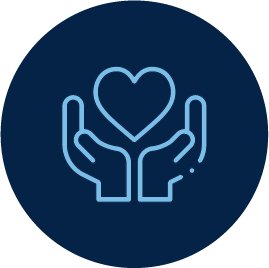
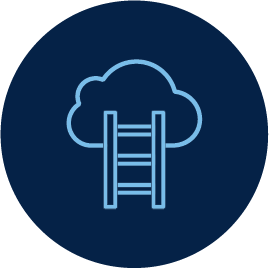
updated club values

Changed region(s): [[0.2082, 0.209, 0.7732, 0.806], [0.684, 0.6269, 0.7435, 0.6567]]

diff --git a/src/components/AboutUs/ClubValuesSection.js b/src/components/AboutUs/ClubValuesSection.js
@@ -1,6 +1,6 @@
 import React from "react"
 import styled from "styled-components"
-import Card from "../CardWithoutLink"
+import Card from "../CardWithDecor"
 import SectionTitle from "../SectionTitle"
 import icon1 from "../../images/about_us/club_values/club_value_1.png"
 import icon2 from "../../images/about_us/club_values/club_value_2.png"
@@ -26,26 +26,26 @@ const ClubValuesSection = () => (
             <Card className="item-0"
                 title="Big Data Energy"
                 icon={icon1}
-                description={<>We embrace our wacky and creative sides because that’s where all the best ideas are born. 
-                After all, why stick to the status-quo when you can think bigger?</>}
+                description={<>Quirky. Weird. Passionate.  We’re not just a professional club, we’re a family. 
+                We embrace our wacky and creative sides—that’s where the best ideas are born!</>}
             />
             <Card className="item-1"
-                title="Big Data For All"
+                title="Dream Big"
                 icon={icon2}
-                description={<>There are no hierarchies among us, just as there is no “I” in “team”! We’re a family and 
-                that means that we uplift each other.</>}
+                description={<>Why stick to the status-quo when you can think bigger? Serving the student, 
+                business, and campus communities has pushed us to always ask “What next?”</>}
             />
             <Card className="item-2"
-                title="Big Data Growth"
+                title="Always Learning"
                 icon={icon3}
-                description={<>We strive to create an environment where our members are free to pursue their interests and 
-                grow, socially and professionally.</>}
+                description={<>Everyone has something to teach, & nobody knows everything. We constantly pursue our 
+                interests while growing professionally and socially.</>}
             />
             <Card className="item-3"
-                title="Big Data Communication"
+                title="Big Data For All"
                 icon={icon4}
-                description={<>Nobody wants to be left in the dark. Frequent communication is the glue that holds our 
-                organization together.</>}
+                description={<>Taking initiative, following through and holding each other accountable. Collaboration 
+                is the glue that holds our family together, with everyone doing their part.</>}
             />
         </CardContainer>
     </>

diff --git a/src/components/CardWithDecor.js b/src/components/CardWithDecor.js
@@ -1,0 +1,94 @@
+import React from "react"
+import styled from "styled-components"
+
+const Container = styled.div`
+    display: flex;
+    justify-content: center;
+    flex-direction: column;
+    align-items: center;
+    width: 300px;
+    height: 320px;
+    background-color: #fbfbfb;
+    border: 30px solid #fbfbfb;
+    border-top: 55px solid #fbfbfb;
+    border-bottom: 55px solid #fbfbfb;
+    border-radius: 25px;
+    text-align: center;
+    margin: 0px 10px 50px 10px;
+
+    @media (max-width: 500px) {
+        margin: 0px 0px 50px 0px;
+        border: 30px solid #fbfbfb;
+        border-top: 45px solid #fbfbfb;
+        border-bottom: 45px solid #fbfbfb;
+    }
+`
+
+const Icon = styled.img`
+    height: 100px;
+
+    @media (max-width: 500px) {
+        height: 80px;
+    }
+
+    @media (max-width: 350px) {
+        height: 60px;
+    }
+`
+
+const Title = styled.h2`
+    font-family: 'Montserrat', sans-serif;
+    font-style: bold;
+    font-size: 18px;
+    font-weight: 700;
+    color: #4d4d4f;
+    letter-spacing: 0.4px;
+    text-decoration: underline; 
+    text-decoration-color: #fbfbfb;
+
+    ::first-letter {
+        color: #4f96c7;
+        font-size: 25px;
+    }
+
+    @media (max-width: 500px) {
+        font-size: 15px;
+    }
+
+    @media (max-width: 350px) {
+        font-size: 13px;
+    }
+`
+
+const Description = styled.span`
+    font-family: 'Montserrat', sans-serif;
+    font-weight: 100;
+    font-size: 13px;
+    line-height: 15px;
+    color: #4d4d4f;
+    letter-spacing: 0.4px;
+    text-decoration: underline; 
+    text-decoration-color: #fbfbfb;
+
+    @media (max-width: 500px) {
+        font-size: 11px;
+        line-height: 13px;
+    }
+
+    @media (max-width: 350px) {
+        font-size: 10px;
+        line-height: 12px;
+    }
+`
+
+const CardWithoutLink = (props) => {
+    return (
+        <Container>
+            <Icon src={props.icon}/>
+            <Title>{props.title}</Title>
+            <Description>{props.description}</Description>
+        </Container>
+    )
+}
+
+export default CardWithoutLink
